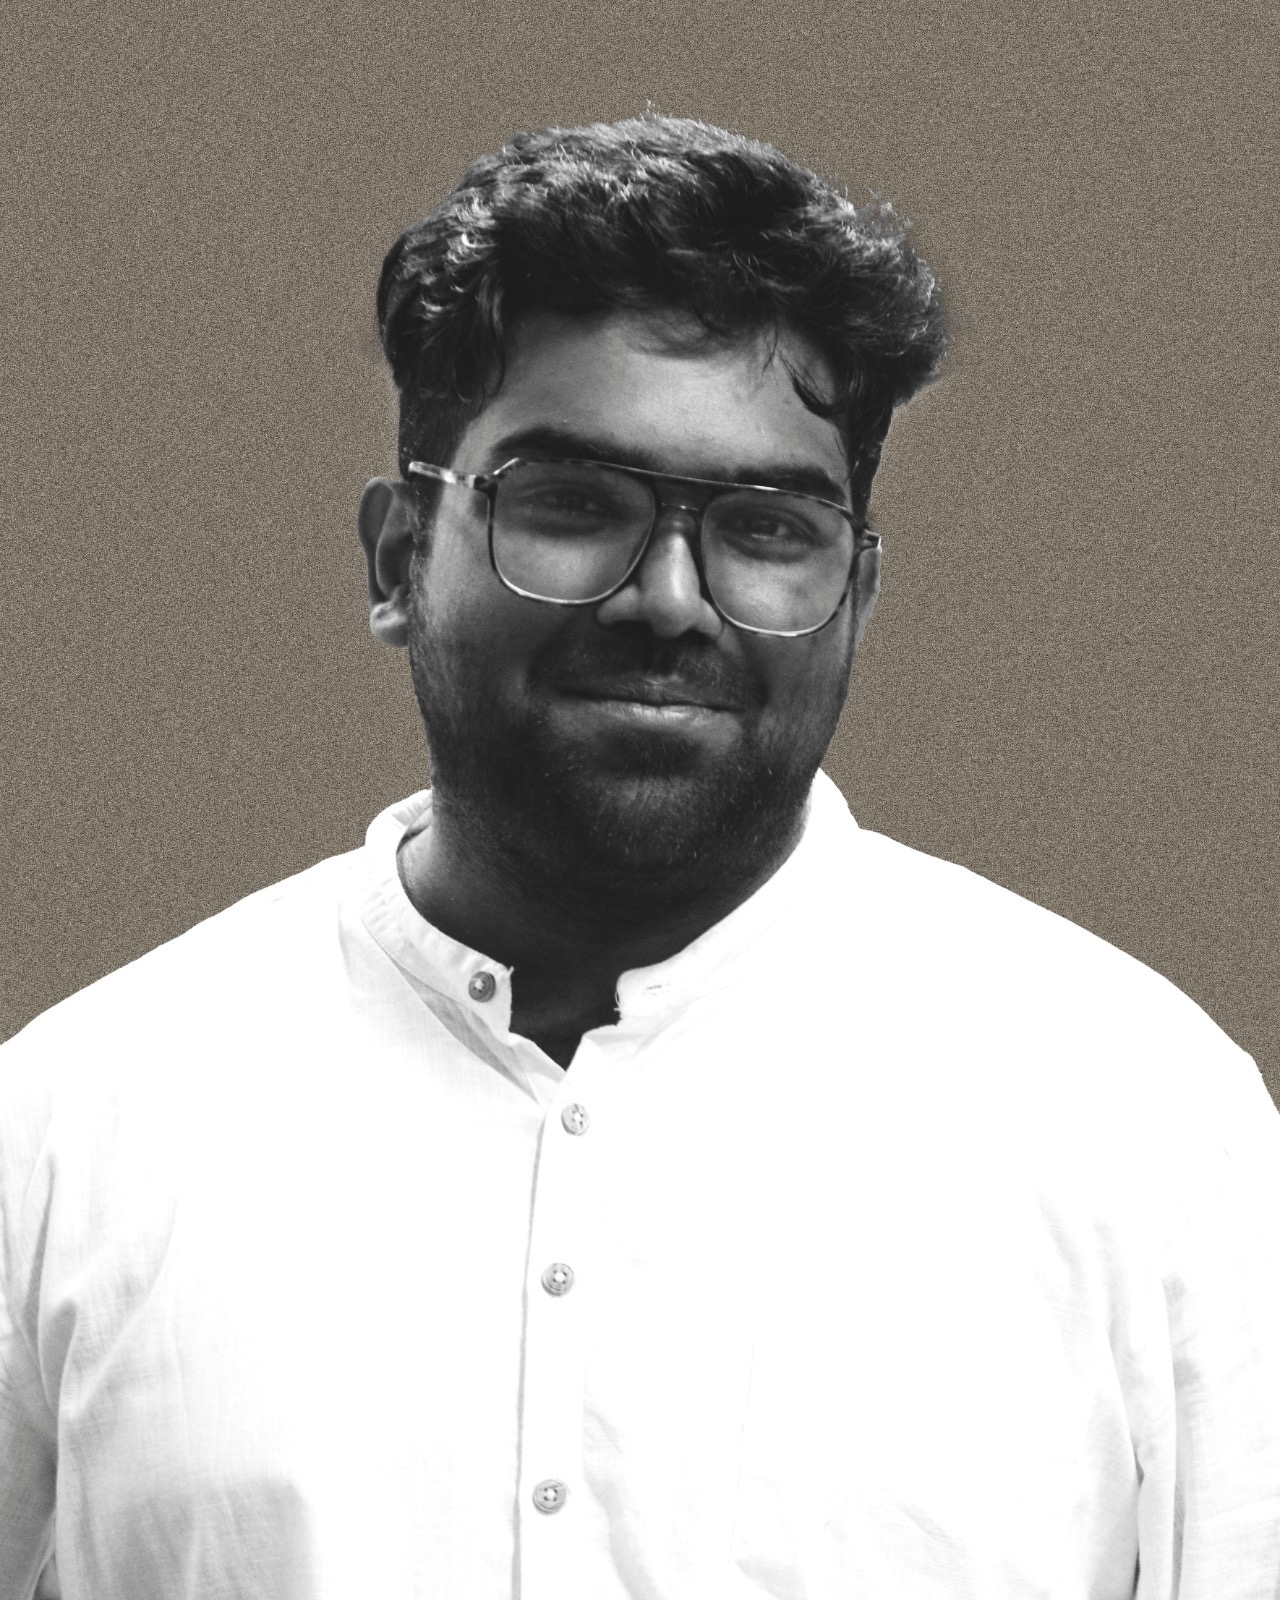
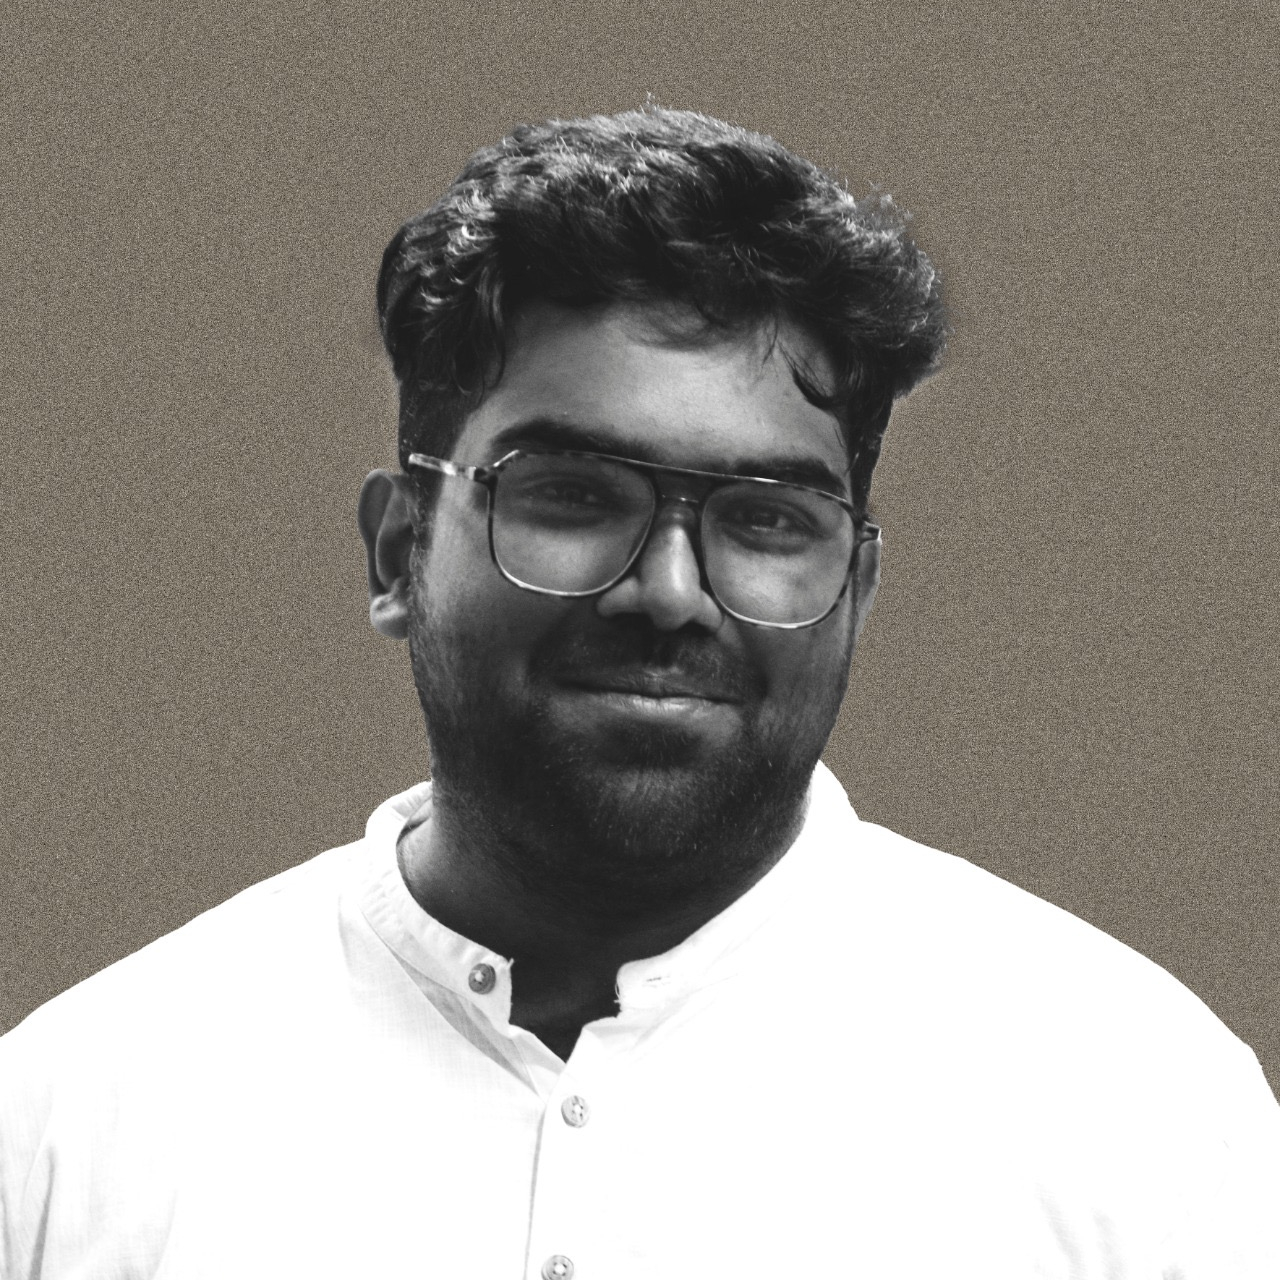
updated

diff --git a/people.html b/people.html
@@ -160,7 +160,7 @@
       </div>
 
       <div class="team-row-card">
-        <img src="./img/People/manvi.jpeg" class="team-row-img">
+        <img src="./img/People/manvi.png" class="team-row-img">
         <div class="team-row-text">
           <h2>Manvi Jain</h2>
           <p>PhD | Joined 2026</p>
